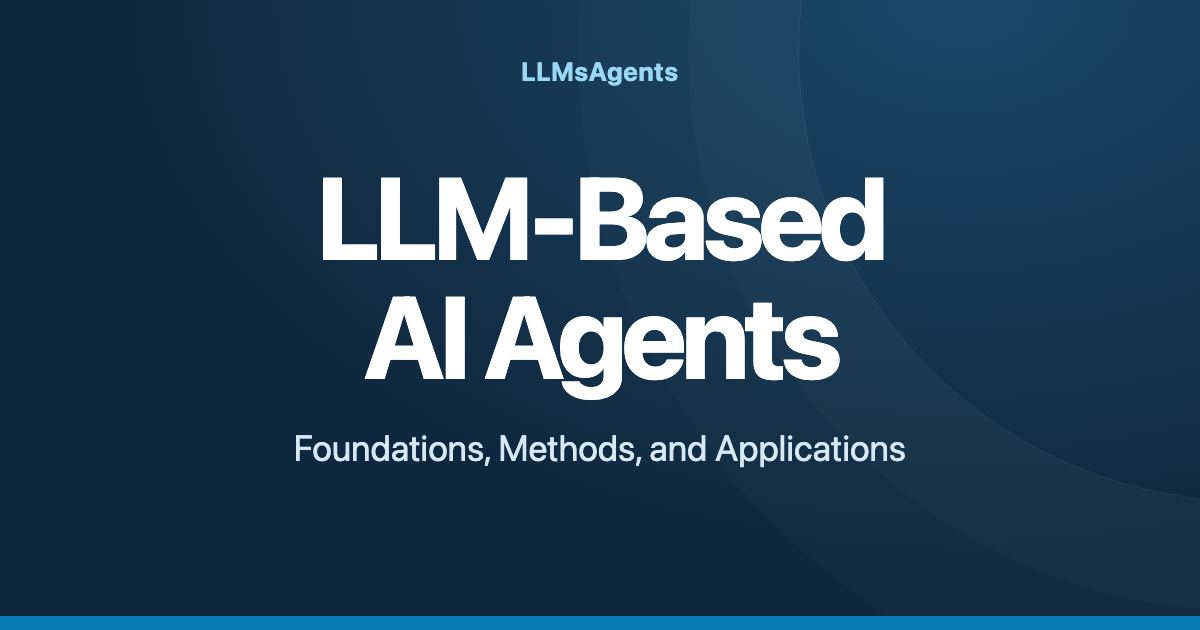
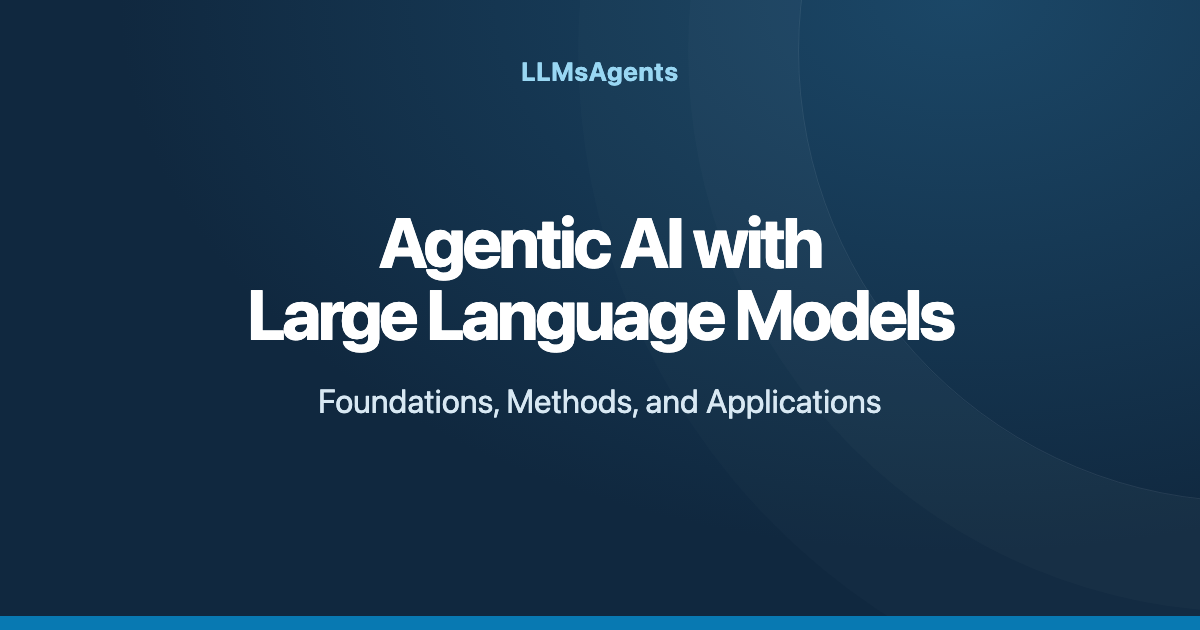
Add files via upload

Changed region(s): [[0.185, 0.2714, 0.8017, 0.6635], [0.2467, 0.6937, 0.7708, 0.754]]

diff --git a/index.html b/index.html
@@ -3,7 +3,7 @@
 <head>
   <meta charset="utf-8">
   <meta name="viewport" content="width=device-width, initial-scale=1">
-  <meta name="description" content="LLM-Based AI Agents: Foundations, Methods, and Applications. An AAAI 2027 tutorial on agent architectures, evaluation, trustworthy AI, multi-agent systems, and scientific discovery.">
+  <meta name="description" content="Agentic AI with Large Language Models: Foundations, Methods, and Applications. An AAAI 2027 tutorial on agent architectures, evaluation, trustworthy AI, multi-agent systems, and scientific discovery.">
   <meta name="author" content="Wenbin Zhang, Jie (Jack) Yang, Song Fang, Zhoutian Han">
   <meta name="theme-color" content="#10283f">
[1 lines of base64/hex data omitted]
@@ -11,11 +11,11 @@
   <meta property="og:site_name" content="LLMsAgents">
   <meta property="og:url" content="https://llmsagents.github.io/">
   <meta property="og:title" content="LLMsAgents | AAAI 2027 Tutorial">
-  <meta property="og:description" content="LLM-Based AI Agents: Foundations, Methods, and Applications. Explore the lifecycle of LLM-based agents with Wenbin Zhang, Jie (Jack) Yang, Song Fang, and Zhoutian Han.">
+  <meta property="og:description" content="Agentic AI with Large Language Models: Foundations, Methods, and Applications. Explore the lifecycle of LLM-based agents with Wenbin Zhang, Jie (Jack) Yang, Song Fang, and Zhoutian Han.">
   <meta property="og:image" content="https://llmsagents.github.io/og-image.png">
   <meta property="og:image:width" content="1200">
   <meta property="og:image:height" content="630">
-  <meta property="og:image:alt" content="LLM-Based AI Agents: Foundations, Methods, and Applications">
+  <meta property="og:image:alt" content="Agentic AI with Large Language Models: Foundations, Methods, and Applications">
   <meta name="twitter:card" content="summary_large_image">
   <title>LLMsAgents | AAAI 2027 Tutorial</title>
   <style>
@@ -46,7 +46,8 @@
     .menu-toggle{display:none;background:transparent;border:1px solid var(--line);border-radius:6px;padding:6px 13px;color:var(--ink)}
     .hero{position:relative;isolation:isolate;overflow:hidden;background:radial-gradient(ellipse at 80% 0%,#1b4767 0%,transparent 62%),var(--navy);color:#fff;padding:80px 0 73px;text-align:center}
     .hero::after{content:"";position:absolute;z-index:-1;width:680px;height:680px;border:1px solid #ffffff12;border-radius:50%;right:-360px;top:-250px;box-shadow:0 0 0 90px #ffffff03,0 0 0 180px #ffffff03}
-    .hero h1{font-size:clamp(2.55rem,5.4vw,4.1rem);font-weight:750;letter-spacing:-.045em;margin:0 0 18px}
+    .hero h1{font-size:clamp(2.55rem,5.4vw,4.1rem);font-weight:750;letter-spacing:-.045em;margin:0 0 18px;text-wrap:balance}
+    .hero h1 .title-keep{white-space:nowrap}
     .hero-subtitle{font-size:clamp(1.35rem,2.6vw,2rem);line-height:1.4;font-weight:400;color:#d8e8f3;margin:0 0 24px}
     .hero-description{max-width:680px;margin:0 auto 32px;color:#c1d4e3;font-size:1.075rem}
     .hero-actions{display:flex;justify-content:center;gap:12px;flex-wrap:wrap}
@@ -122,7 +123,7 @@
     @media(min-width:1500px){.hero{padding-block:95px}}
     @media(max-width:960px){.speakers-grid{grid-template-columns:repeat(2,minmax(0,1fr));gap:28px;max-width:680px;margin-inline:auto}.speaker-photo{aspect-ratio:5/4}.speaker-affiliation{min-height:0}.overview-columns{gap:30px}.nav-links{gap:19px}}
     @media(max-width:640px){
-      html{scroll-padding-top:75px}.container{width:calc(100% - 36px)}.navigation{min-height:68px;flex-wrap:wrap;gap:0;position:relative}.brand{font-size:.95rem}.js .menu-toggle{display:block}.nav-links{width:100%;gap:0;justify-content:space-between;padding:8px 0 14px;flex-wrap:wrap}.nav-links a{font-size:.875rem;display:block;padding:8px 4px}.js .nav-links{display:none}.js .nav-links.is-open{display:flex}.hero{padding:58px 0 53px}.hero h1{font-size:2.6rem}.hero-description{font-size:1rem}.hero-subtitle{font-size:1.4rem}.info-items{flex-wrap:wrap;gap:6px 0;line-height:1.6;padding:13px 0}.info-items li{padding:0 14px;font-size:.825rem}.section{padding:54px 0}.overview-columns,.resources-grid{grid-template-columns:1fr;gap:27px}.speakers-grid{gap:15px}.speaker-content{padding:17px 10px}.speaker-content h3{font-size:1.07rem}.speaker-role,.speaker-affiliation{font-size:.825rem}.speaker-affiliation{min-height:2.7em}.speaker-photo{aspect-ratio:1/1}.agenda-item{grid-template-columns:70px minmax(0,1fr);gap:15px;padding:23px 0}.agenda-item h3{font-size:1.1rem}.duration{font-size:.95rem}.duration span{font-size:.8rem}.agenda-item p{font-size:.925rem}.dialog-header{padding:24px 22px 18px}.dialog-body{padding:22px}.footer .container{display:block}.footer .back-top{display:inline-block;margin-top:15px}
+      html{scroll-padding-top:75px}.container{width:calc(100% - 36px)}.navigation{min-height:68px;flex-wrap:wrap;gap:0;position:relative}.brand{font-size:.95rem}.js .menu-toggle{display:block}.nav-links{width:100%;gap:0;justify-content:space-between;padding:8px 0 14px;flex-wrap:wrap}.nav-links a{font-size:.875rem;display:block;padding:8px 4px}.js .nav-links{display:none}.js .nav-links.is-open{display:flex}.hero{padding:58px 0 53px}.hero h1{font-size:2.6rem}.hero h1 .title-keep{white-space:normal}.hero-description{font-size:1rem}.hero-subtitle{font-size:1.4rem}.info-items{flex-wrap:wrap;gap:6px 0;line-height:1.6;padding:13px 0}.info-items li{padding:0 14px;font-size:.825rem}.section{padding:54px 0}.overview-columns,.resources-grid{grid-template-columns:1fr;gap:27px}.speakers-grid{gap:15px}.speaker-content{padding:17px 10px}.speaker-content h3{font-size:1.07rem}.speaker-role,.speaker-affiliation{font-size:.825rem}.speaker-affiliation{min-height:2.7em}.speaker-photo{aspect-ratio:1/1}.agenda-item{grid-template-columns:70px minmax(0,1fr);gap:15px;padding:23px 0}.agenda-item h3{font-size:1.1rem}.duration{font-size:.95rem}.duration span{font-size:.8rem}.agenda-item p{font-size:.925rem}.dialog-header{padding:24px 22px 18px}.dialog-body{padding:22px}.footer .container{display:block}.footer .back-top{display:inline-block;margin-top:15px}
     }
     @media(max-width:360px){.speakers-grid{grid-template-columns:1fr;max-width:255px}.speaker-affiliation{min-height:0}.info-items li{border:0}.hero h1{font-size:2.3rem}}
     @media(prefers-reduced-motion:reduce){html{scroll-behavior:auto}}
@@ -147,7 +148,7 @@
     <!-- EVENT DETAILS: add the confirmed tutorial date, time and room when available. -->
     <section class="hero" aria-labelledby="tutorial-title">
       <div class="container">
-        <h1 id="tutorial-title">LLM-Based AI Agents</h1>
+        <h1 id="tutorial-title">Agentic AI with <span class="title-keep">Large Language Models</span></h1>
         <p class="hero-subtitle">Foundations, Methods, and Applications</p>
         <p class="hero-description">From reasoning and tool use to trustworthy, collaborative systems. A connected introduction to the lifecycle of agentic AI.</p>
         <div class="hero-actions"><a class="button button-primary" href="#agenda">Explore the program</a><a class="button button-ghost" href="#speakers">Meet the speakers</a></div>
@@ -160,7 +161,7 @@
         <div class="prose">
           <p>LLM-based AI agents extend language models into goal-directed systems that reason, plan, maintain memory, retrieve information, use tools, and interact with humans and other agents. Understanding these systems means connecting their individual capabilities to the design, evaluation, and responsible deployment of a complete agentic system.</p>
           <p>This tutorial follows that lifecycle through six connected modules: foundations; architectures, methods, and implementation; evaluation and human oversight; multi-agent systems; applications and scientific discovery; and emerging research directions. A running data-intelligence case connects the modules, following an agent as it retrieves evidence, invokes analytical tools, maintains context, and produces an evidence-grounded result under human oversight.</p>
-          <p>Drawing on the structure of the forthcoming book <em>LLM-Based AI Agents: Foundations, Methods, and Applications</em>, the tutorial emphasizes transferable concepts across AI, machine learning, planning, data management, and human–AI interaction.</p>
+          <p>Drawing on the structure of the forthcoming book <em>Agentic AI with Large Language Models: Foundations, Methods, and Applications</em>, the tutorial emphasizes transferable concepts across AI, machine learning, planning, data management, and human–AI interaction.</p>
           <div class="overview-columns">
             <div><h3>What you will learn</h3><ul class="learning-list"><li>Distinguish LLM calls, workflows, individual agents, and multi-agent systems.</li><li>Connect reasoning, planning, memory, retrieval, and tool use within an agent loop.</li><li>Evaluate outcomes, trajectories, and individual actions, including their risks and costs.</li><li>Design appropriate oversight and identify when multi-agent collaboration adds value.</li></ul></div>
             <div class="audience"><h3>Who should attend</h3><p>Researchers, graduate students, AI developers, data scientists, practitioners, and educators interested in agentic AI.</p><p>Basic familiarity with machine learning and LLMs is helpful. No experience with a particular agent framework is required.</p><p class="setup-note">Short activities use prepared diagrams and execution traces. No installation, API access, or special computing resources are needed.</p></div>
